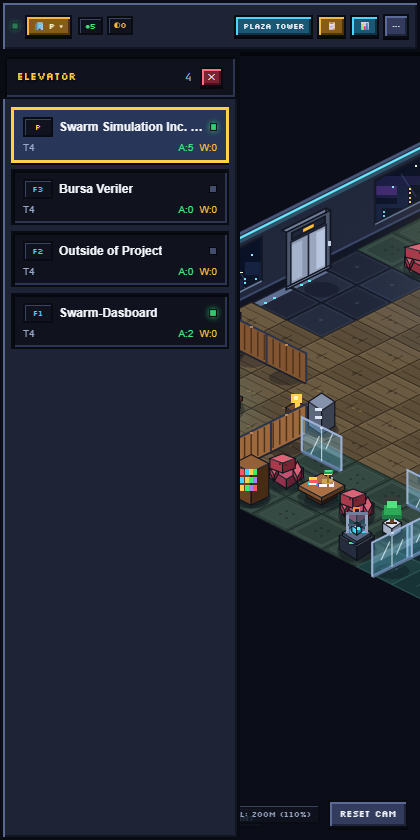
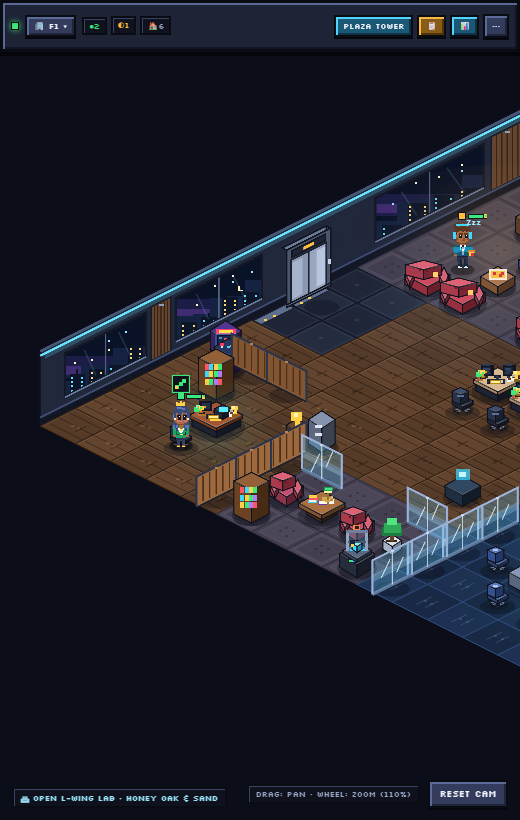
release: v1.3.1 add Graphics & System Settings modal, decluttered toolbar, and refreshed docs/screenshots

diff --git a/README.tr.md b/README.tr.md
@@ -2,7 +2,7 @@
 
 [![CI](https://github.com/akinba/antigravity-swarm-plaza/actions/workflows/ci.yml/badge.svg)](https://github.com/akinba/antigravity-swarm-plaza/actions/workflows/ci.yml)
 [![Release](https://img.shields.io/github/v/release/akinba/antigravity-swarm-plaza?include_prereleases)](https://github.com/akinba/antigravity-swarm-plaza/releases)
-![Version](https://img.shields.io/badge/version-v1.3.0-ffd147)
+![Version](https://img.shields.io/badge/version-v1.3.1-ffd147)
 
 [🇬🇧 **English**](README.md) | 🇹🇷 **Türkçe** | [🇨🇳 **简体中文**](README.zh-CN.md)
 
@@ -49,6 +49,18 @@
       <strong>📊 60 Dakikalık Analitik &amp; Telemetri</strong><br /><br />
       <img src="docs/screenshots/analytics-modal.png" alt="60 Dakikalık Analitik" width="100%" /><br />
       <em>60 dakikalık aktivite çubukları, tamamlanan görev sayacı ve model dağılımı</em>
+    </td>
+  </tr>
+  <tr>
+    <td width="50%" align="center">
+      <strong>⚙ Oyun Tarzı Grafik &amp; Sistem Ayarları</strong><br /><br />
+      <img src="docs/screenshots/settings-modal.png" alt="Grafik ve Sistem Ayarları Penceresi" width="100%" /><br />
+      <em>Tek tık FPS/DPR profilleri (60 FPS Eski Akıcı varsayılan), AA, statik önbellek ve sistem tercihleri</em>
+    </td>
+    <td width="50%" align="center">
+      <strong>📅 Dikey Gantt &amp; Swarm Beyaz Tahta</strong><br /><br />
+      <img src="docs/screenshots/whiteboard-modal.png" alt="Swarm Beyaz Tahta Dikey Gantt" width="100%" /><br />
+      <em>Yan yana ajan sütunları, gerçek tarih blokları, HH:MM zaman çizelgesi ve Resimli Personel Listesi</em>
     </td>
   </tr>
 </table>
@@ -106,7 +118,11 @@ flowchart LR
 
 ---
 
-## 🌟 Temel Yetenekler & Yenilikler (v1.3.0)
+## 🌟 Temel Yetenekler & Yenilikler (v1.3.1)
+
+- **⚙ Oyun Tarzı Grafik & Sistem Ayarları + Sadeleştirilmiş Üst Bar:**
+  - Tek tıkla seçilebilen hazır performans profilleri (**`⚡ Eski Akıcı 60 FPS`** varsayılan, `⚖ Dengeli 30 FPS`, `🌱 Güç Tasarrufu Eco`, `🔥 Ultra Native`), Çözünürlük Ölçeği (`0.75x` / `1.0x` / `2.0x` / `Native DPR`), Kenar Düzeltme (`Piksel Keskin` / `Yumuşak Smooth`), Kare Hızı Limiti (`Eco 14–24` / `30` / `60` / `Sınırsız`), Statik Mimari Önbelleği anahtarı ve **Canlı FPS** göstergesi içeren **`⚙ AYARLAR`** penceresi.
+  - Masaüstü üst barı sadece temel kat ve gezinme eylemleriyle sadeleştirildi; `Takip Kamerası`, `Gece/Gündüz`, `Demo Modu`, `SFX`, `Tarayıcı Bildirimleri` ve `TR/EN` tercihleri `localStorage` kalıcılığıyla Ayarlar penceresine taşındı.
 
 - **👥 Resimli Personel Listesi (`👥 PERSONEL LİSTESİ`) & `⬅ LİSTEYE DÖN` RPG Geçişi:**
   - Kattaki her aktif ajan için canlı `64×64` 2.5B piksel portreler, güncel görev/aktivite özeti, model rozeti, `~Tahmini` kredi ve token kullanımı, `HP` sağlık çubuğu ve tek tıkla açılan RPG Kartı içinde doğrudan listeye dönmeyi sağlayan sol üst **`⬅ LİSTEYE DÖN`** butonu.

diff --git a/README.zh-CN.md b/README.zh-CN.md
@@ -4,7 +4,7 @@
 
 [![CI](https://github.com/akinba/antigravity-swarm-plaza/actions/workflows/ci.yml/badge.svg)](https://github.com/akinba/antigravity-swarm-plaza/actions/workflows/ci.yml)
 [![Release](https://img.shields.io/github/v/release/akinba/antigravity-swarm-plaza?include_prereleases)](https://github.com/akinba/antigravity-swarm-plaza/releases)
-![Version](https://img.shields.io/badge/version-v1.3.0-ffd147)
+![Version](https://img.shields.io/badge/version-v1.3.1-ffd147)
 ![Node](https://img.shields.io/badge/node-%3E%3D22.5.0-3be87a)
 ![License](https://img.shields.io/badge/license-MIT-3cd8ff)
 ![Sidecar](https://img.shields.io/badge/Sidecar-Ready-b07cff)
@@ -56,6 +56,18 @@
       <strong>📊 60 分钟活动分析与遥测</strong><br /><br />
       <img src="docs/screenshots/analytics-modal.png" alt="60 分钟活动分析" width="100%" /><br />
       <em>60 分钟活动柱状图、已完成任务统计与多模型分布视图</em>
+    </td>
+  </tr>
+  <tr>
+    <td width="50%" align="center">
+      <strong>⚙ 游戏级图形与系统设置</strong><br /><br />
+      <img src="docs/screenshots/settings-modal.png" alt="图形与系统设置弹窗" width="100%" /><br />
+      <em>一键 FPS/DPR 预设（默认 60 FPS 经典流畅）、抗锯齿、静态缓存与系统偏好设置</em>
+    </td>
+    <td width="50%" align="center">
+      <strong>📅 纵向甘特图与 Swarm 白板</strong><br /><br />
+      <img src="docs/screenshots/whiteboard-modal.png" alt="Swarm 白板纵向甘特图" width="100%" /><br />
+      <em>并列智能体泳道、真实日期分组、HH:MM 时间线与图文人员名录</em>
     </td>
   </tr>
 </table>
@@ -113,7 +125,11 @@ flowchart LR
 
 ---
 
-## 🌟 核心特性与新功能 (Core Features & v1.3.0)
+## 🌟 核心特性与新功能 (Core Features & v1.3.1)
+
+- **⚙ 游戏级图形与系统设置 + 精简顶部工具栏：**
+  - 配备独立 **`⚙ SETTINGS`** 弹窗，支持一键切换性能预设（默认 **`⚡ 经典流畅 60 FPS`**、`⚖ 均衡 30 FPS`、`🌱 省电 Eco`、`🔥 极致 Native`）、分辨率缩放（`0.75x` / `1.0x` / `2.0x` / `Native DPR`）、抗锯齿（`像素锐利` / `平滑`）、帧率上限（`Eco 14–24` / `30` / `60` / `无限制`）、静态建筑缓存开关及 **实时 FPS** 指示器。
+  - 精简桌面端顶部栏，仅保留核心楼层与导航操作；`跟随镜头`、`昼夜切换`、`Demo 模式`、`音效 SFX`、`浏览器提醒` 与 `TR/EN` 语言切换统一移入设置弹窗并通过 `localStorage` 持久化保存。
 
 - **👥 图文人员名录 (`👥 PERSONNEL ROSTER`) 与 `⬅ BACK TO LIST` RPG 返回导航：**
   - 为楼层中每位活跃智能体实时渲染 `64×64` 2.5D 像素肖像，展示当前任务/活动摘要、模型徽章、`~Estimated` 积分与 Token 消耗、`HP` 健康条，并支持一键打开 RPG 角色卡及左上角 **`⬅ BACK TO LIST`** 快速返回名录。

diff --git a/README.md b/README.md
@@ -2,7 +2,7 @@
 
 [![CI](https://github.com/akinba/antigravity-swarm-plaza/actions/workflows/ci.yml/badge.svg)](https://github.com/akinba/antigravity-swarm-plaza/actions/workflows/ci.yml)
 [![Release](https://img.shields.io/github/v/release/akinba/antigravity-swarm-plaza?include_prereleases)](https://github.com/akinba/antigravity-swarm-plaza/releases)
-![Version](https://img.shields.io/badge/version-v1.3.0-ffd147)
+![Version](https://img.shields.io/badge/version-v1.3.1-ffd147)
 
 🇬🇧 **English** | [🇹🇷 **Türkçe**](README.tr.md) | [🇨🇳 **简体中文**](README.zh-CN.md)
 
@@ -49,6 +49,18 @@
       <strong>📊 60-Minute Analytics &amp; Telemetry</strong><br /><br />
       <img src="docs/screenshots/analytics-modal.png" alt="60-Minute Analytics" width="100%" /><br />
       <em>60-minute activity bar chart, completed task counters, and model distribution</em>
+    </td>
+  </tr>
+  <tr>
+    <td width="50%" align="center">
+      <strong>⚙ Game-Style Graphics &amp; System Settings</strong><br /><br />
+      <img src="docs/screenshots/settings-modal.png" alt="Graphics &amp; System Settings Modal" width="100%" /><br />
+      <em>One-click FPS/DPR profiles (60 FPS Classic default), AA, static cache, and system toggles</em>
+    </td>
+    <td width="50%" align="center">
+      <strong>📅 Vertical Gantt &amp; Swarm Whiteboard</strong><br /><br />
+      <img src="docs/screenshots/whiteboard-modal.png" alt="Swarm Whiteboard Vertical Gantt" width="100%" /><br />
+      <em>Side-by-side agent swimlanes, real date blocks, HH:MM timeline, and Personnel Roster</em>
     </td>
   </tr>
 </table>
@@ -106,7 +118,11 @@ flowchart LR
 
 ---
 
-## 🌟 Key Features & What's New (v1.3.0)
+## 🌟 Key Features & What's New (v1.3.1)
+
+- **⚙ Game-Style Graphics & System Settings + Decluttered Top Bar:**
+  - Dedicated **`⚙ SETTINGS`** modal with one-click performance presets (**`⚡ Classic Smooth 60 FPS`** default, `⚖ Balanced 30 FPS`, `🌱 Power Saver Eco`, `🔥 Ultra Native`), Resolution Scale (`0.75x` / `1.0x` / `2.0x` / `Native DPR`), Anti-Aliasing (`Pixel Crisp` / `Smooth`), Frame Rate Limit (`Eco 14–24` / `30` / `60` / `Unlimited`), Static Architecture Cache toggle, and a **Live FPS** readout.
+  - Decluttered desktop toolbar keeping only core navigation and floor actions, while moving `Follow Cam`, `Day/Night`, `Demo Mode`, `SFX`, `Browser Alerts`, and `TR/EN` into Settings with `localStorage` persistence.
 
 - **👥 Illustrated Personnel Roster (`👥 PERSONNEL ROSTER`) & Back-to-List RPG Navigation:**
   - Live `64×64` 2.5D pixel-art portraits for every active agent on the floor, paired with current activity/task summary, model badge, `~Estimated` credit & token usage, `HP` health bar, and one-click RPG Card inspection with a top-left **`⬅ BACK TO LIST`** button to jump straight back to the roster.
